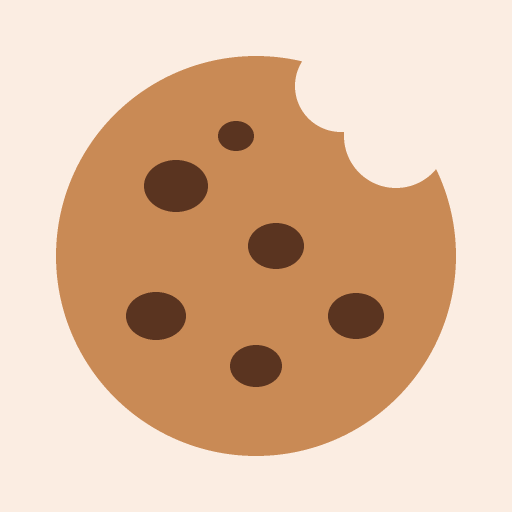
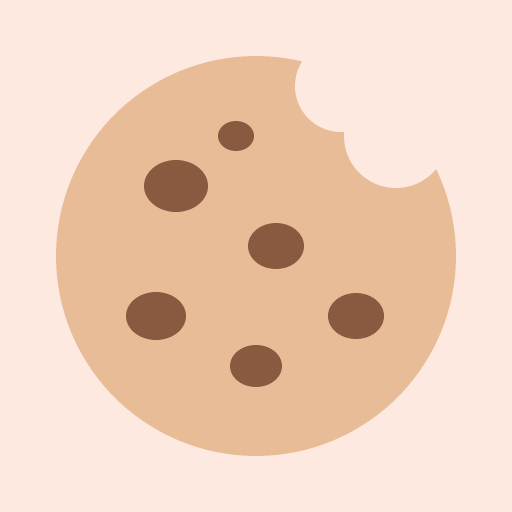
Pastel light theme: peach, blush and lavender palette

diff --git a/styles.css b/styles.css
@@ -1,45 +1,65 @@
 /* ===== Niwa Cookies – لوحة الإدارة ===== */
+/* ألوان باستيل فاتحة: كريمي، خوخي، وردي ولافندر */
 :root {
-  --bg: #FDF6F0;
+  --bg: #FFF8F4;
+  --bg-glow-1: #FDE7DD;
+  --bg-glow-2: #EFE6F8;
   --surface: #FFFFFF;
-  --surface-2: #F8EBDF;
-  --line: #EEDDCD;
-  --ink: #2E1C12;
-  --ink-2: #6E5444;
-  --ink-3: #9C8372;
-  --brand: #8E5530;
-  --brand-strong: #6F3E20;
-  --brand-ink: #FFFFFF;
-  --brand-soft: #F7E4D3;
-  --accent: #C98A55;
-  --good: #2E7D4F;  --good-soft: #E2F2E7;
-  --warn: #A86200; --warn-soft: #FFF0D6;
-  --bad: #C0392B;  --bad-soft: #FBE3DF;
-  --info: #2F6FB0; --info-soft: #E3EEF9;
-  --grid: #EFE3D6;
-  --shadow: 0 1px 2px rgba(80, 45, 20, .06), 0 6px 20px rgba(80, 45, 20, .07);
-  --radius: 18px;
+  --surface-2: #FCF0EA;
+  --line: #F3E3DA;
+  --ink: #4A3429;
+  --ink-2: #8B7063;
+  --ink-3: #B49D90;
+  --brand: #F0C2AE;          /* خوخي باستيل – للتعبئة */
+  --brand-strong: #E9AE96;
+  --brand-ink: #5A3324;      /* نص فوق الخوخي */
+  --brand-text: #A35F45;     /* نص ملوّن فوق الأبيض */
+  --brand-soft: #FDE9E0;
+  --lav: #7B62A8; --lav-soft: #EFE8FA;
+  --hero: linear-gradient(135deg, #FBDCCD 0%, #F7D9E6 55%, #E8DDF7 100%);
+  --hero-neg: linear-gradient(135deg, #FBD9D6 0%, #F8E0E0 100%);
+  --bar: #EBAA90;
+  --good: #3A8660;  --good-soft: #E1F3E8;
+  --warn: #A06612; --warn-soft: #FDF1D8;
+  --bad: #C14E4A;  --bad-soft: #FCE4E2;
+  --info: #4572AE; --info-soft: #E5EEFB;
+  --grid: #F5EAE3;
+  --toast: #4A3429; --toast-ink: #FFF8F4;
+  --shadow: 0 1px 2px rgba(165, 100, 80, .05), 0 8px 26px rgba(165, 100, 80, .08);
+  --radius: 20px;
   --nav-h: 64px;
   color-scheme: light;
 }
 @media (prefers-color-scheme: dark) {
   :root:not([data-theme="light"]) {
-    --bg: #16100C; --surface: #211812; --surface-2: #2C2119; --line: #3B2D23;
-    --ink: #F6ECE2; --ink-2: #CDB9A7; --ink-3: #927E6D;
-    --brand: #E2A46C; --brand-strong: #F0BC8A; --brand-ink: #24160C; --brand-soft: #3A2919; --accent: #E2A46C;
-    --good: #5FC48D; --good-soft: #163325; --warn: #F2B34E; --warn-soft: #3A2A10;
-    --bad: #F2806F; --bad-soft: #3E1C17; --info: #74ABEA; --info-soft: #16283D;
-    --grid: #33271E; --shadow: 0 1px 2px rgba(0,0,0,.3), 0 6px 20px rgba(0,0,0,.25);
+    --bg: #1B1517; --bg-glow-1: #2A1E1E; --bg-glow-2: #221D2C;
+    --surface: #251D20; --surface-2: #30262A; --line: #3D3135;
+    --ink: #F7ECE6; --ink-2: #CDB8B0; --ink-3: #94807A;
+    --brand: #F0C2AE; --brand-strong: #F6D3C3; --brand-ink: #3A2118; --brand-text: #F3BFA8; --brand-soft: #3A2A27;
+    --lav: #C7B4EC; --lav-soft: #2E2738;
+    --hero: linear-gradient(135deg, #4A3330 0%, #45303C 55%, #3A3349 100%);
+    --hero-neg: linear-gradient(135deg, #4A2826 0%, #42292B 100%);
+    --bar: #E9AE96;
+    --good: #7DD3A4; --good-soft: #1B3328; --warn: #F2C26E; --warn-soft: #3A2E17;
+    --bad: #F59A93; --bad-soft: #3F2223; --info: #93B8EE; --info-soft: #1C2A3E;
+    --grid: #33292D; --toast: #F7ECE6; --toast-ink: #2A1F22;
+    --shadow: 0 1px 2px rgba(0,0,0,.3), 0 8px 24px rgba(0,0,0,.25);
     color-scheme: dark;
   }
 }
 :root[data-theme="dark"] {
-  --bg: #16100C; --surface: #211812; --surface-2: #2C2119; --line: #3B2D23;
-  --ink: #F6ECE2; --ink-2: #CDB9A7; --ink-3: #927E6D;
-  --brand: #E2A46C; --brand-strong: #F0BC8A; --brand-ink: #24160C; --brand-soft: #3A2919; --accent: #E2A46C;
-  --good: #5FC48D; --good-soft: #163325; --warn: #F2B34E; --warn-soft: #3A2A10;
-  --bad: #F2806F; --bad-soft: #3E1C17; --info: #74ABEA; --info-soft: #16283D;
-  --grid: #33271E; --shadow: 0 1px 2px rgba(0,0,0,.3), 0 6px 20px rgba(0,0,0,.25);
+  --bg: #1B1517; --bg-glow-1: #2A1E1E; --bg-glow-2: #221D2C;
+  --surface: #251D20; --surface-2: #30262A; --line: #3D3135;
+  --ink: #F7ECE6; --ink-2: #CDB8B0; --ink-3: #94807A;
+  --brand: #F0C2AE; --brand-strong: #F6D3C3; --brand-ink: #3A2118; --brand-text: #F3BFA8; --brand-soft: #3A2A27;
+  --lav: #C7B4EC; --lav-soft: #2E2738;
+  --hero: linear-gradient(135deg, #4A3330 0%, #45303C 55%, #3A3349 100%);
+  --hero-neg: linear-gradient(135deg, #4A2826 0%, #42292B 100%);
+  --bar: #E9AE96;
+  --good: #7DD3A4; --good-soft: #1B3328; --warn: #F2C26E; --warn-soft: #3A2E17;
+  --bad: #F59A93; --bad-soft: #3F2223; --info: #93B8EE; --info-soft: #1C2A3E;
+  --grid: #33292D; --toast: #F7ECE6; --toast-ink: #2A1F22;
+  --shadow: 0 1px 2px rgba(0,0,0,.3), 0 8px 24px rgba(0,0,0,.25);
   color-scheme: dark;
 }
 
@@ -47,7 +67,9 @@
 html { -webkit-text-size-adjust: 100%; }
 body {
   margin: 0;
-  background: var(--bg);
+  background: radial-gradient(900px 500px at 100% -10%, var(--bg-glow-1), transparent 60%), radial-gradient(800px 500px at -10% 20%, var(--bg-glow-2), transparent 55%), var(--bg);
+  background-attachment: fixed;
+  min-height: 100vh;
   color: var(--ink);
   font-family: "IBM Plex Sans Arabic", system-ui, -apple-system, "Segoe UI", Tahoma, sans-serif;
   font-size: 15px;
@@ -102,7 +124,7 @@ main {
   height: var(--nav-h); font-size: 11.5px; font-weight: 500;
   color: var(--ink-3); text-decoration: none; position: relative;
 }
-.nav a.active { color: var(--brand); }
+.nav a.active { color: var(--brand-text); }
 .nav a.active::before {
   content: ""; position: absolute; top: 0; width: 28px; height: 3px; border-radius: 0 0 3px 3px; background: var(--brand);
 }
@@ -146,7 +168,7 @@ main {
   border: 0; background: transparent; color: var(--ink-2); position: relative; flex: none;
 }
 .icon-btn:hover { background: var(--surface-2); color: var(--ink); }
-.link { border: 0; background: none; padding: 0; color: var(--brand); font-weight: 600; font-size: inherit; text-decoration: underline; text-underline-offset: 3px; }
+.link { border: 0; background: none; padding: 0; color: var(--brand-text); font-weight: 600; font-size: inherit; text-decoration: underline; text-underline-offset: 3px; }
 .bell-badge {
   position: absolute; top: 1px; inset-inline-start: 22px;
   min-width: 18px; height: 18px; padding: 0 5px; border-radius: 9px;
@@ -161,7 +183,7 @@ main {
   display: inline-flex; align-items: center; gap: 8px;
   height: 54px; padding: 0 22px 0 18px; border-radius: 27px; border: 0;
   background: var(--brand); color: var(--brand-ink); font-weight: 700; font-size: 15.5px;
-  box-shadow: 0 8px 24px color-mix(in srgb, var(--brand) 40%, transparent);
+  box-shadow: 0 8px 24px rgba(220, 140, 110, .35);
   transition: transform .15s ease;
 }
 .fab:active { transform: scale(.96); }
@@ -186,7 +208,7 @@ main {
   border: 1px solid var(--line); background: var(--surface); color: var(--ink-2);
   font-size: 14px; font-weight: 500; display: inline-flex; align-items: center; gap: 6px; white-space: nowrap;
 }
-.seg button.on, .chip input:checked + span { background: var(--ink); border-color: var(--ink); color: var(--bg); }
+.seg button.on, .chip input:checked + span { background: var(--brand); border-color: var(--brand); color: var(--brand-ink); font-weight: 600; }
 .seg .count { font-size: 12px; opacity: .75; }
 .chips { display: flex; flex-wrap: wrap; gap: 6px; }
 .chip { position: relative; }
@@ -210,10 +232,10 @@ main {
 .kpi-label { font-size: 13px; color: var(--ink-2); }
 .kpi-value { font-size: 21px; font-weight: 700; font-variant-numeric: tabular-nums; white-space: nowrap; overflow: hidden; text-overflow: ellipsis; }
 .kpi-sub { font-size: 12px; color: var(--ink-3); }
-.kpi.hero { grid-column: 1 / -1; background: var(--brand); color: var(--brand-ink); }
-.kpi.hero .kpi-label, .kpi.hero .kpi-sub { color: inherit; opacity: .85; }
+.kpi.hero { grid-column: 1 / -1; background: var(--hero); color: var(--ink); }
+.kpi.hero .kpi-label, .kpi.hero .kpi-sub { color: var(--ink-2); }
 .kpi.hero .kpi-value { font-size: 32px; }
-.kpi.hero.neg { background: var(--bad); color: #fff; }
+.kpi.hero.neg { background: var(--hero-neg); color: var(--bad); }
 .kpi.tap { cursor: pointer; border: 0; text-align: start; font: inherit; color: inherit; }
 @media (min-width: 700px) {
   .kpis { grid-template-columns: repeat(4, 1fr); }
@@ -227,7 +249,7 @@ main {
   background: none; border-inline: 0; border-bottom: 0; width: 100%; text-align: start; color: inherit; font: inherit;
 }
 .rows > .row:first-child { border-top: 0; padding-top: 2px; }
-button.row:hover .row-main strong { color: var(--brand); }
+button.row:hover .row-main strong { color: var(--brand-text); }
 .row-main { flex: 1; min-width: 0; display: flex; flex-direction: column; }
 .row-main strong { font-weight: 600; white-space: nowrap; overflow: hidden; text-overflow: ellipsis; }
 .row-main span { font-size: 13px; color: var(--ink-2); white-space: nowrap; overflow: hidden; text-overflow: ellipsis; }
@@ -243,7 +265,7 @@ button.row:hover .row-main strong { color: var(--brand); }
 .tone-warn { background: var(--warn-soft); color: var(--warn); }
 .tone-bad { background: var(--bad-soft); color: var(--bad); }
 .tone-info { background: var(--info-soft); color: var(--info); }
-.tone-accent { background: var(--brand-soft); color: var(--brand); }
+.tone-accent { background: var(--lav-soft); color: var(--lav); }
 .tone-muted { background: var(--surface-2); color: var(--ink-3); }
 
 /* ===== Bars (best sellers / categories) ===== */
@@ -260,13 +282,13 @@ button.row:hover .row-main strong { color: var(--brand); }
 .chart .grid.base { stroke: var(--line); }
 .chart .axis { fill: var(--ink-3); font-size: 11px; font-family: inherit; }
 .chart .val { fill: var(--ink); font-size: 12px; font-weight: 600; font-family: inherit; }
-.chart .bar { fill: var(--brand); transition: opacity .15s ease; }
+.chart .bar { fill: var(--bar); transition: opacity .15s ease; }
 .chart.hovering .bar { opacity: .4; }
 .chart.hovering .bar.on { opacity: 1; }
 .chart .hit { fill: transparent; cursor: pointer; }
 .tip {
   position: absolute; top: 0; z-index: 2; pointer-events: none;
-  background: var(--ink); color: var(--bg); border-radius: 12px; padding: 9px 12px; font-size: 13px;
+  background: var(--toast); color: var(--toast-ink); border-radius: 12px; padding: 9px 12px; font-size: 13px;
   min-width: 150px; box-shadow: var(--shadow);
 }
 .tip strong { display: block; margin-bottom: 4px; }
@@ -308,7 +330,7 @@ button.row:hover .row-main strong { color: var(--brand); }
 .size-row { display: flex; align-items: center; gap: 10px; padding: 12px 0; border-top: 1px solid var(--line); }
 .size-info { flex: 1; min-width: 0; display: flex; flex-direction: column; gap: 1px; }
 .size-info strong { font-size: 15px; }
-.size-info .price { font-size: 14px; font-weight: 600; color: var(--brand); }
+.size-info .price { font-size: 14px; font-weight: 600; color: var(--brand-text); }
 .packs { font-size: 12.5px; color: var(--ink-2); }
 .stock-ctl { display: flex; align-items: center; gap: 4px; }
 .step-btn {
@@ -356,7 +378,7 @@ button.row:hover .row-main strong { color: var(--brand); }
   border: 1px solid var(--line); background: var(--surface); font-size: 16px; outline: none;
 }
 .field textarea { resize: vertical; min-height: 64px; }
-.field input:focus, .field select:focus, .field textarea:focus, .input:focus { border-color: var(--brand); box-shadow: 0 0 0 3px color-mix(in srgb, var(--brand) 18%, transparent); }
+.field input:focus, .field select:focus, .field textarea:focus, .input:focus { border-color: var(--brand); box-shadow: 0 0 0 3px color-mix(in srgb, var(--brand) 45%, transparent); }
 .field.sm input { min-height: 40px; padding: 8px 10px; font-size: 15px; }
 .field.sm > span { font-size: 12px; }
 .field-row { display: grid; grid-template-columns: 1fr 1fr; gap: 10px; align-items: end; }
@@ -386,8 +408,8 @@ button.row:hover .row-main strong { color: var(--brand); }
 .pick-info .nm { font-weight: 600; }
 .pick-info .meta { font-size: 12.5px; color: var(--ink-2); }
 .pick-info .meta .over { color: var(--bad); font-weight: 700; }
-.pick-info .calc { font-size: 12.5px; color: var(--brand); font-weight: 600; }
-.pick-row.on .nm { color: var(--brand); }
+.pick-info .calc { font-size: 12.5px; color: var(--brand-text); font-weight: 600; }
+.pick-row.on .nm { color: var(--brand-text); }
 .stepper { display: flex; align-items: center; gap: 4px; flex: none; }
 .stepper .qty {
   width: 52px; height: 38px; text-align: center; border-radius: 10px; border: 1px solid var(--line);
@@ -459,13 +481,13 @@ button.row:hover .row-main strong { color: var(--brand); }
 }
 .toast {
   pointer-events: auto; max-width: 440px; width: fit-content;
-  background: var(--ink); color: var(--bg); padding: 11px 16px; border-radius: 14px;
+  background: var(--toast); color: var(--toast-ink); padding: 11px 16px; border-radius: 16px;
   font-size: 14.5px; font-weight: 500; box-shadow: 0 10px 30px rgba(0,0,0,.2);
   display: flex; align-items: center; gap: 8px; animation: drop .25s ease;
 }
-.toast.warn { background: var(--warn); color: #fff; }
-.toast.bad { background: var(--bad); color: #fff; }
-.toast.good { background: var(--good); color: #fff; }
+.toast.warn { background: var(--warn-soft); color: var(--warn); border: 1px solid color-mix(in srgb, var(--warn) 25%, transparent); }
+.toast.bad { background: var(--bad-soft); color: var(--bad); border: 1px solid color-mix(in srgb, var(--bad) 25%, transparent); }
+.toast.good { background: var(--good-soft); color: var(--good); border: 1px solid color-mix(in srgb, var(--good) 25%, transparent); }
 .toast.out { opacity: 0; transform: translateY(-8px); transition: all .25s ease; }
 @keyframes drop { from { transform: translateY(-12px); opacity: 0; } }
 

diff --git a/app.js b/app.js
@@ -24,7 +24,9 @@ const EXPENSE_CATS = [
   { id: 'equipment',   label: 'أدوات ومعدات',    emoji: '🍳' },
   { id: 'other',       label: 'أخرى',            emoji: '🧾' },
 ];
-const COLORS = ['#7A4A2A', '#E07B39', '#6E9A3A', '#D45D8C', '#7D5BA6', '#3C7DBF', '#C9A227', '#B23A3A'];
+const COLORS = ['#C9A189', '#F2B488', '#A8C98F', '#F1A9C2', '#BBA8E3', '#9EC5E8', '#EBCD80', '#E7A0A0'];
+// تحويل الألوان القديمة الغامقة لنسختها الباستيل
+const OLD_COLORS = { '#7A4A2A': '#C9A189', '#E07B39': '#F2B488', '#6E9A3A': '#A8C98F', '#D45D8C': '#F1A9C2', '#7D5BA6': '#BBA8E3', '#3C7DBF': '#9EC5E8', '#C9A227': '#EBCD80', '#B23A3A': '#E7A0A0' };
 const MONTHS = ['يناير', 'فبراير', 'مارس', 'أبريل', 'مايو', 'يونيو', 'يوليو', 'أغسطس', 'سبتمبر', 'أكتوبر', 'نوفمبر', 'ديسمبر'];
 const PERIODS = { month: 'هذا الشهر', last: 'الشهر الماضي', year: 'هذي السنة', all: 'الكل' };
 const ORDER_FILTERS = { active: 'الحالية', unpaid: 'غير مدفوعة', delivered: 'تم التسليم', cancelled: 'ملغية', all: 'الكل' };
@@ -115,12 +117,12 @@ function defaultState() {
   return {
     app: APP_ID,
     version: DATA_VERSION,
-    settings: { name: 'Niwa Cookies', currency: 'ر.س', notify: false, monthlyBudget: 0, backupDays: 7, theme: 'auto' },
+    settings: { name: 'Niwa Cookies', currency: 'ر.س', notify: false, monthlyBudget: 0, backupDays: 7, theme: 'light' },
     meta: { nextOrderNo: 1, lastBackup: null, createdAt: Date.now() },
     products: [
-      product('كلاسيك بلجيكي', 'كوكيز بالشوكولاتة البلجيكية', '#7A4A2A', 1.5, 5, [{ qty: 4, price: 17 }, { qty: 8, price: 31 }]),
-      product('كندر', 'كوكيز بالشوكولاتة البلجيكية وكندر', '#E07B39', 2.5, 6, [{ qty: 4, price: 21 }, { qty: 8, price: 39 }]),
-      product('ماتشا', 'كوكيز بالشوكولاتة البلجيكية وماتشا', '#6E9A3A', 2.5, 6, [{ qty: 4, price: 21 }, { qty: 8, price: 39 }]),
+      product('كلاسيك بلجيكي', 'كوكيز بالشوكولاتة البلجيكية', '#C9A189', 1.5, 5, [{ qty: 4, price: 17 }, { qty: 8, price: 31 }]),
+      product('كندر', 'كوكيز بالشوكولاتة البلجيكية وكندر', '#F2B488', 2.5, 6, [{ qty: 4, price: 21 }, { qty: 8, price: 39 }]),
+      product('ماتشا', 'كوكيز بالشوكولاتة البلجيكية وماتشا', '#A8C98F', 2.5, 6, [{ qty: 4, price: 21 }, { qty: 8, price: 39 }]),
     ],
     orders: [],
     expenses: [],
@@ -134,7 +136,10 @@ function normalize(d) {
   s.settings = { ...def.settings, ...(d.settings || {}) };
   s.meta = { ...def.meta, ...(d.meta || {}) };
   for (const k of ['products', 'orders', 'expenses', 'batches']) if (!Array.isArray(s[k])) s[k] = [];
+  // التصميم الجديد فاتح افتراضيًا
+  if (!s.meta.pastel) { if (s.settings.theme === 'auto') s.settings.theme = 'light'; s.meta.pastel = true; }
   for (const p of s.products) {
+    if (OLD_COLORS[p.color]) p.color = OLD_COLORS[p.color];
     p.sizes = Array.isArray(p.sizes) ? p.sizes : [];
     for (const z of p.sizes) { z.packs = Array.isArray(z.packs) ? z.packs : []; z.stock = Number(z.stock) || 0; z.low = Number(z.low) || 0; }
   }

diff --git a/index.html b/index.html
@@ -5,8 +5,8 @@
   <meta name="viewport" content="width=device-width, initial-scale=1, viewport-fit=cover">
   <title>إدارة الكوكيز</title>
   <meta name="description" content="إدارة الطلبات والمخزون والمصاريف والأرباح لمشروع الكوكيز">
-  <meta name="theme-color" content="#FAF5EE" media="(prefers-color-scheme: light)">
-  <meta name="theme-color" content="#15100C" media="(prefers-color-scheme: dark)">
+  <meta name="theme-color" content="#FFF8F4" media="(prefers-color-scheme: light)">
+  <meta name="theme-color" content="#1B1517" media="(prefers-color-scheme: dark)">
   <meta name="apple-mobile-web-app-capable" content="yes">
   <meta name="mobile-web-app-capable" content="yes">
   <meta name="apple-mobile-web-app-status-bar-style" content="default">

diff --git a/sw.js b/sw.js
@@ -1,5 +1,5 @@
 // يخلي الموقع يشتغل حتى بدون إنترنت
-const CACHE = 'niwa-v1';
+const CACHE = 'niwa-v2';
 const SHELL = ['./', 'index.html', 'styles.css', 'app.js', 'manifest.webmanifest', 'icons/icon.svg', 'icons/icon-192.png', 'icons/icon-512.png', 'icons/apple-touch-icon.png'];
 
 self.addEventListener('install', e => {
